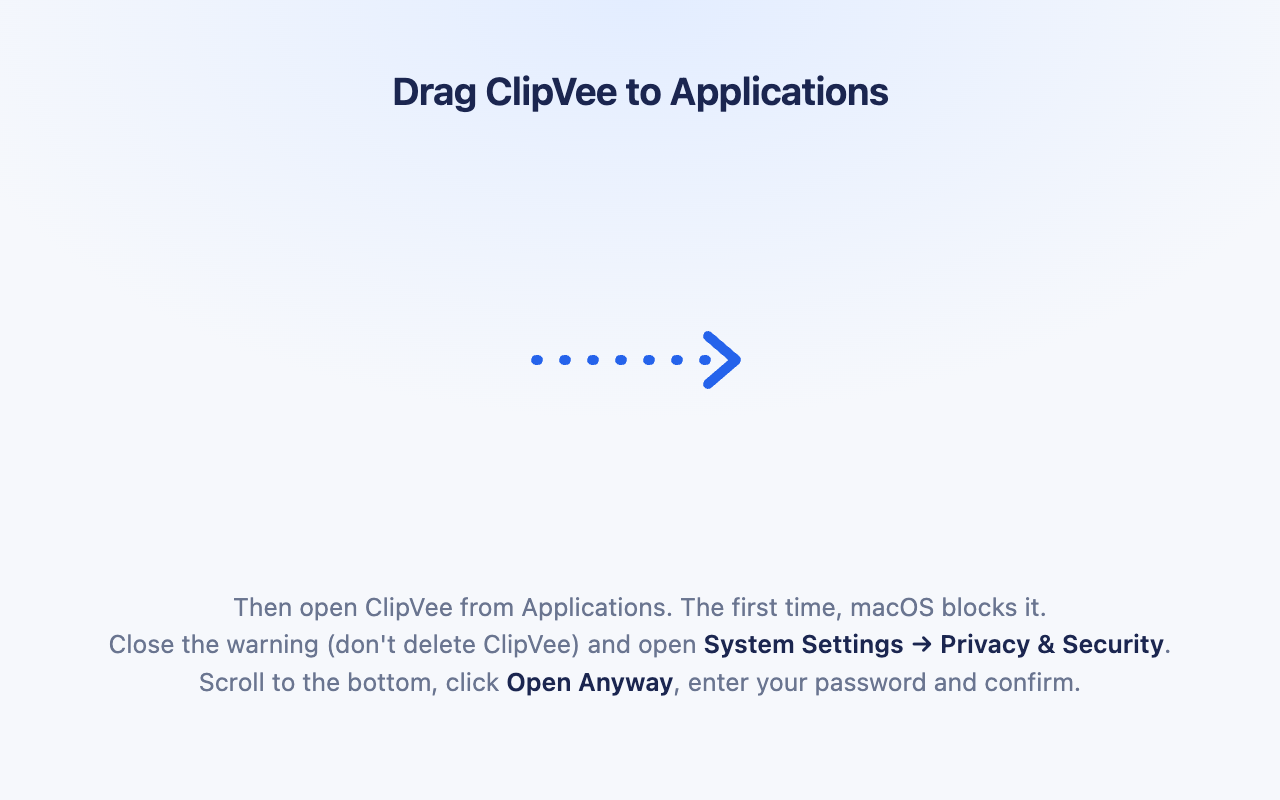
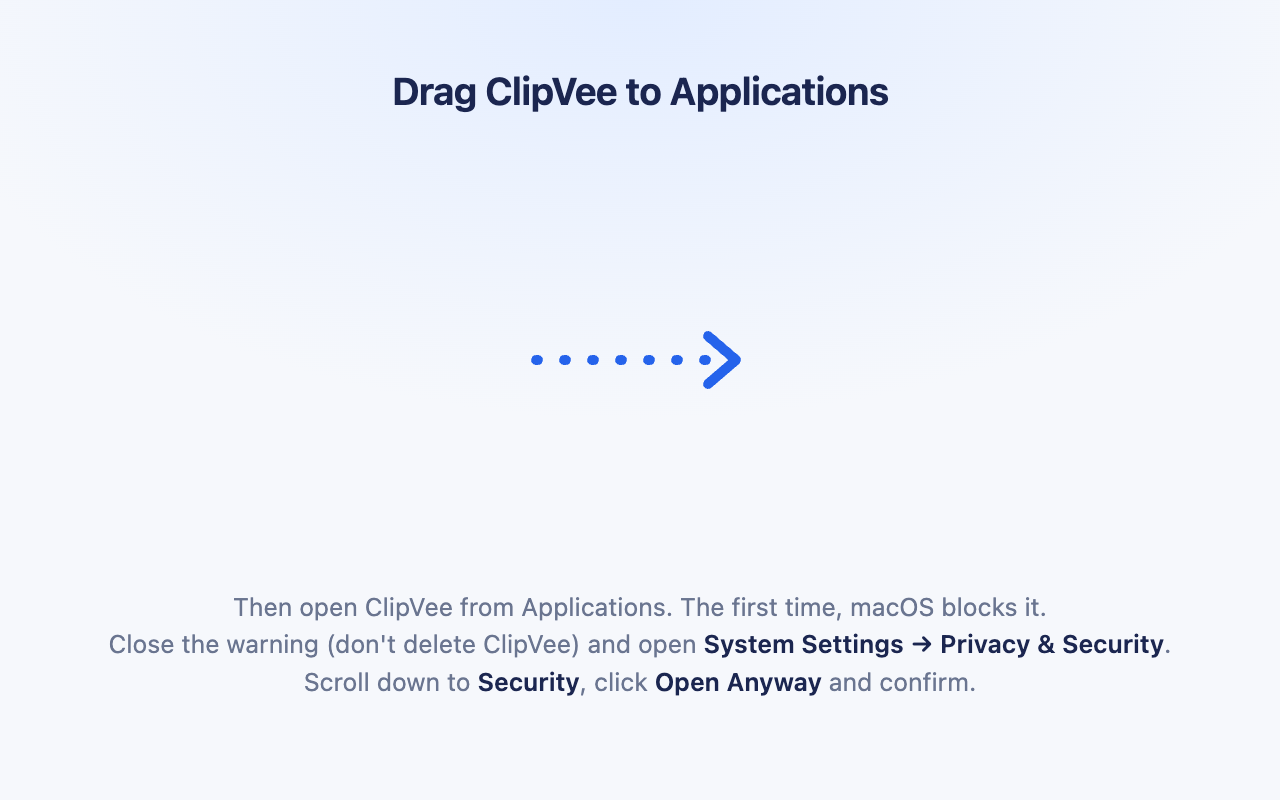
Point to the Security section and lead the notes with the pin fix

Changed region(s): [[0.1562, 0.8438, 0.8438, 0.875]]

diff --git a/Design/dmg-background.html b/Design/dmg-background.html
@@ -10,5 +10,5 @@ svg{position:absolute;left:262px;top:160px}
 </style></head><body>
 <h1>Drag ClipVee to Applications</h1>
 <svg width="116" height="40" viewBox="0 0 116 40"><path d="M6 20h96" stroke="#2563EB" stroke-width="5" stroke-linecap="round" stroke-dasharray="1 13"/><path d="M92 8l14 12-14 12" fill="none" stroke="#2563EB" stroke-width="5" stroke-linecap="round" stroke-linejoin="round"/></svg>
-<p>Then open ClipVee from Applications. The first time, macOS blocks it.<br>Close the warning (don't delete ClipVee) and open <b>System Settings → Privacy &amp; Security</b>.<br>Scroll to the bottom, click <b>Open Anyway</b>, enter your password and confirm.</p>
+<p>Then open ClipVee from Applications. The first time, macOS blocks it.<br>Close the warning (don't delete ClipVee) and open <b>System Settings → Privacy &amp; Security</b>.<br>Scroll down to <b>Security</b>, click <b>Open Anyway</b> and confirm.</p>
 </body></html>

diff --git a/README.md b/README.md
@@ -40,7 +40,7 @@ Needs macOS 14 Sonoma or later, on Apple silicon or Intel.
    brew install --cask mzbali/tap/clipvee
    ```
 
-2. Open ClipVee. It isn't notarised by Apple yet, so the first time macOS blocks it. Close the warning without deleting ClipVee, then open System Settings → Privacy & Security, scroll to the bottom and click **Open Anyway**. Enter your password and confirm.
+2. Open ClipVee. It isn't notarised by Apple yet, so the first time macOS blocks it. Close the warning without deleting ClipVee, then open System Settings → Privacy & Security, scroll down to Security and click **Open Anyway**, then confirm.
 3. In the welcome window, click **Allow…** and turn on ClipVee under Accessibility. This lets it paste for you.
 
 Then press <kbd>⌘</kbd> <kbd>⇧</kbd> <kbd>V</kbd>. Updates install from inside the app, and your history and settings carry over.

diff --git a/docs/releases/1.0.6.md b/docs/releases/1.0.6.md
@@ -1,5 +1,4 @@
-- The disk image window now walks you through the first-launch approval step, for every supported macOS version.
-- The welcome window's Accessibility instructions are simpler.
 - Pins no longer get a keyboard shortcut when no free key is left (a fix from Maccy).
+- Clearer first-launch steps for new installs, in the disk image window and the welcome window.
 
 Requires macOS 14 Sonoma or later on Apple silicon or Intel. This release is not notarised by Apple; the installation guide explains the first-launch approval step.
